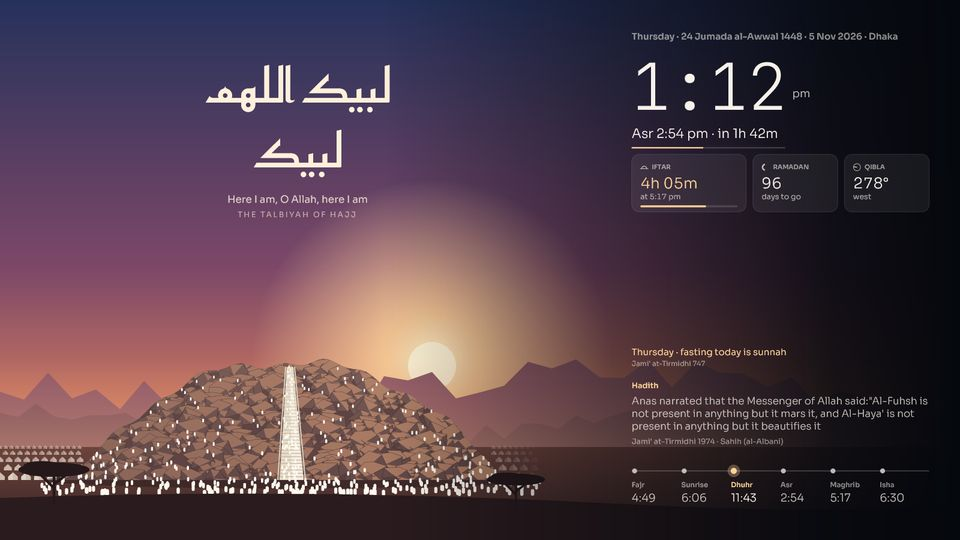
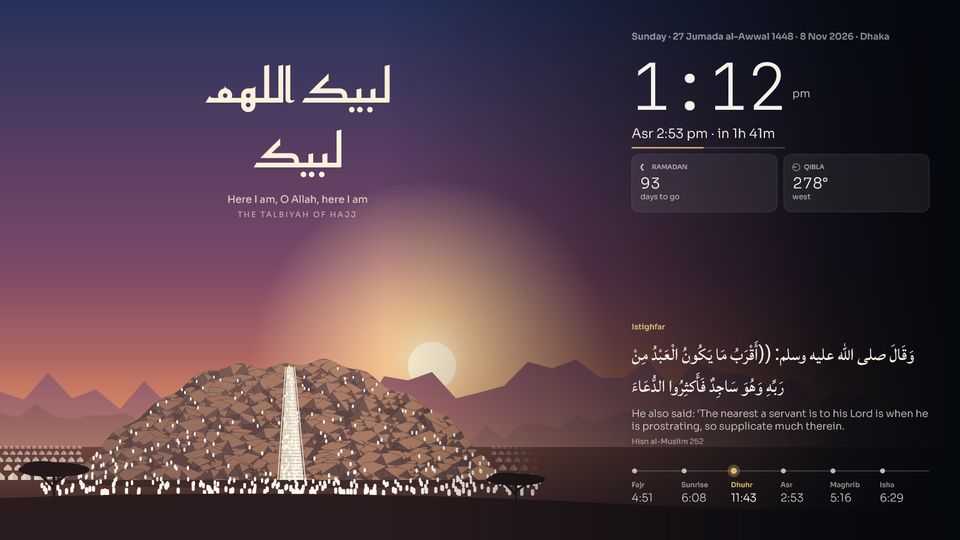
README and demo page: the new dark scenes and the date line styles

diff --git a/docs/index.html b/docs/index.html
@@ -343,7 +343,7 @@ h2{font-size:clamp(28px,3.6vw,44px);font-weight:300;letter-spacing:-.035em;line-
         <li>CPU, memory, GPU, disk and network in one quiet row with small history lines</li>
         <li>Read straight from Windows; only that small strip is redrawn</li>
         <li>Turn it off and the wallpaper goes back to updating once a minute</li></ul></div></div>
-      <div class="cell b6"><div class="core"><span class="tag">Calligraphy</span><h3>13 scenes drawn by the app</h3><ul>
+      <div class="cell b6"><div class="core"><span class="tag">Calligraphy</span><h3>21 scenes drawn by the app</h3><ul>
         <li>An illuminated page, a night over an Ottoman mosque, dunes at dawn, lanterns, ink and seal, zellige, an oasis, a moonlit sea and more</li>
         <li>Each with a phrase in bold Kufi lettering, its meaning and its source</li>
         <li>Vector art, sharp on any screen; drawn once when the picture changes, no extra memory</li></ul></div></div>
@@ -397,7 +397,7 @@ h2{font-size:clamp(28px,3.6vw,44px);font-weight:300;letter-spacing:-.035em;line-
   <section id="calligraphy">
     <span class="eyebrow">Calligraphy</span>
     <h2>Scenes the app draws itself.</h2>
-    <div class="gal"><figure><img src="calligraphy/illuminated-page.jpg" alt="Illuminated page" loading="lazy"><figcaption>Illuminated page</figcaption></figure><figure><img src="calligraphy/night-over-the-mosque.jpg" alt="Night over the mosque" loading="lazy"><figcaption>Night over the mosque</figcaption></figure><figure><img src="calligraphy/lanterns.jpg" alt="Lanterns" loading="lazy"><figcaption>Lanterns</figcaption></figure><figure><img src="calligraphy/tone-on-tone-allah.jpg" alt="Tone on tone" loading="lazy"><figcaption>Tone on tone</figcaption></figure><figure><img src="calligraphy/ramadan-night.jpg" alt="Ramadan night" loading="lazy"><figcaption>Ramadan night</figcaption></figure><figure><img src="calligraphy/eid-morning.jpg" alt="Eid morning" loading="lazy"><figcaption>Eid morning</figcaption></figure><figure><img src="calligraphy/day-of-arafah.jpg" alt="Day of Arafah" loading="lazy"><figcaption>Day of Arafah</figcaption></figure><figure><img src="calligraphy/eid-prayer-at-the-eidgah.jpg" alt="Eid al-Adha" loading="lazy"><figcaption>Eid al-Adha</figcaption></figure><figure><img src="calligraphy/takbir-of-eid.jpg" alt="Takbir of Eid" loading="lazy"><figcaption>Takbir of Eid</figcaption></figure></div>
+    <div class="gal"><figure><img src="calligraphy/illuminated-page.jpg" alt="Illuminated page" loading="lazy"><figcaption>Illuminated page</figcaption></figure><figure><img src="calligraphy/night-over-the-mosque.jpg" alt="Night over the mosque" loading="lazy"><figcaption>Night over the mosque</figcaption></figure><figure><img src="calligraphy/lanterns.jpg" alt="Lanterns" loading="lazy"><figcaption>Lanterns</figcaption></figure><figure><img src="calligraphy/lamp-in-the-mihrab.jpg" alt="Lamp in the mihrab" loading="lazy"><figcaption>Lamp in the mihrab</figcaption></figure><figure><img src="calligraphy/night-caravan.jpg" alt="Night caravan" loading="lazy"><figcaption>Night caravan</figcaption></figure><figure><img src="calligraphy/river-boat.jpg" alt="River boat" loading="lazy"><figcaption>River boat</figcaption></figure><figure><img src="calligraphy/tone-on-tone-allah.jpg" alt="Tone on tone" loading="lazy"><figcaption>Tone on tone</figcaption></figure><figure><img src="calligraphy/ramadan-night.jpg" alt="Ramadan night" loading="lazy"><figcaption>Ramadan night</figcaption></figure><figure><img src="calligraphy/eid-morning.jpg" alt="Eid morning" loading="lazy"><figcaption>Eid morning</figcaption></figure><figure><img src="calligraphy/day-of-arafah.jpg" alt="Day of Arafah" loading="lazy"><figcaption>Day of Arafah</figcaption></figure><figure><img src="calligraphy/eid-prayer-at-the-eidgah.jpg" alt="Eid al-Adha" loading="lazy"><figcaption>Eid al-Adha</figcaption></figure><figure><img src="calligraphy/takbir-of-eid.jpg" alt="Takbir of Eid" loading="lazy"><figcaption>Takbir of Eid</figcaption></figure></div>
   </section>
   <section id="clocks">
     <span class="eyebrow">Clock</span>

diff --git a/tools/site/build_site.py b/tools/site/build_site.py
@@ -63,6 +63,7 @@ ed("<li>All of it is packed into one small offline file (about 3–5 MB), so not
 
 # Calligraphy gallery: real renders from the app itself (needs a release build in target/release).
 GALLERY = [("illuminated-page", "Illuminated page"), ("night-over-the-mosque", "Night over the mosque"), ("lanterns", "Lanterns"),
+           ("lamp-in-the-mihrab", "Lamp in the mihrab"), ("night-caravan", "Night caravan"), ("river-boat", "River boat"),
            ("tone-on-tone-allah", "Tone on tone"), ("ramadan-night", "Ramadan night"), ("eid-morning", "Eid morning"),
            ("day-of-arafah", "Day of Arafah"), ("eid-prayer-at-the-eidgah", "Eid al-Adha"), ("takbir-of-eid", "Takbir of Eid")]
 EXE = REPO / "target/release/MiqaatWallpaper.exe"
@@ -90,7 +91,7 @@ gallery = "".join(f'<figure><img src="calligraphy/{sid}.jpg" alt="{name}" loadin
 
 ed("""        <li>Turn it off and the wallpaper goes back to updating once a minute</li></ul></div></div>
     </div>""", """        <li>Turn it off and the wallpaper goes back to updating once a minute</li></ul></div></div>
-      <div class="cell b6"><div class="core"><span class="tag">Calligraphy</span><h3>13 scenes drawn by the app</h3><ul>
+      <div class="cell b6"><div class="core"><span class="tag">Calligraphy</span><h3>21 scenes drawn by the app</h3><ul>
         <li>An illuminated page, a night over an Ottoman mosque, dunes at dawn, lanterns, ink and seal, zellige, an oasis, a moonlit sea and more</li>
         <li>Each with a phrase in bold Kufi lettering, its meaning and its source</li>
         <li>Vector art, sharp on any screen; drawn once when the picture changes, no extra memory</li></ul></div></div>

diff --git a/README.md b/README.md
@@ -25,12 +25,12 @@ The **[live demo](https://saimon8420.github.io/miqaat-wallpaper/)** is an intera
 - **Reminders follow the time of day:** morning adhkar after Fajr, adhkar after each salah, evening adhkar after Asr, the iftar dua in Ramadan, and duas before sleep.
 - **Special days**, shown only where the evidence is clear: White Days, Mondays and Thursdays, Ashura, the Day of Arafah, the first ten days of Dhu al-Hijjah, the last ten nights of Ramadan, Eid, Shawwal and Fridays. Fasting days get a heads-up the evening before.
 - **20 pictures** (Kaaba, Madinah, Al-Aqsa, Córdoba, Hagia Sophia, Shat Gumbad, Star Mosque and more), or your own photo. Keep one, or get a new one every day or at each prayer.
-- **13 calligraphy scenes** drawn by the app: an illuminated page, a night over an Ottoman mosque, dunes at dawn, lanterns, ink and seal, zellige, an oasis, a moonlit sea and more, each with a phrase in bold Kufi lettering and its meaning.
+- **21 calligraphy scenes** drawn by the app: an illuminated page, a night over an Ottoman mosque, dunes at dawn, lanterns, ink and seal, zellige, a lamp in the mihrab, a night caravan, a monsoon night, a river boat, mountains under stars, palms at moonrise and more, each with a phrase in bold Kufi lettering and its meaning.
 - **Ramadan and Eid scenes** that appear by themselves: Ramadan nights, Laylat al-Qadr in the last ten nights, Eid al-Fitr, the Day of Arafah and Eid al-Adha. Then your own picture comes back.
 - **The light follows the sky.** The picture turns rose at Fajr, gold at sunrise and orange at Maghrib, and darkens at night. You choose how dark.
 - **Clock your way:** six designs (classic, bold hours, stacked, flip tiles, a pill with a seconds ring, or an analog dial), or turn the clock off and let the next prayer lead. With seconds on, only the seconds change: nothing else on the screen moves.
 - **Fasting, next event and Qibla** as lines, chips, small cards (with how much of the fast is done) or one ruled strip.
-- **Design options:** four layouts (column, centre, corner and bottom bar), a separate clock font, weight and size, three countdown styles, a line, dots or ring for the time left, a date line you choose (weekday, Hijri date, date, city), text colour and shadow, column width, a soft shade or a frosted glass card (dark or light, adjustable blur and corners), four prayer-time styles, five system-monitor styles, five accent colours or any colour you pick, a slow camera drift, film grain and picture effects.
+- **Design options:** four layouts (column, centre, corner and bottom bar), a separate clock font, weight and size, three countdown styles, a line, dots or ring for the time left, a date line you choose (weekday, Hijri date, date, city) in four styles (one line, Hijri first, moon phase with tonight's moon, short), text colour and shadow, column width, a soft shade or a frosted glass card (dark or light, adjustable blur and corners), four prayer-time styles, five system-monitor styles, five accent colours or any colour you pick, a slow camera drift, film grain and picture effects.
 - **69 fonts:** 28 Arabic, 9 Bangla and 32 English. The wallpaper can be in English, বাংলা or العربية.
 - **Fasting, Qibla and events:** suhoor and iftar countdowns on Ramadan and sunnah fasting days, a small Qibla compass for your city, and how many days until Ramadan or the next Eid.
 - **Reminders before prayer** (5–30 minutes, your choice) and a Jumu'ah reminder on Fridays, as quiet Windows notifications.
